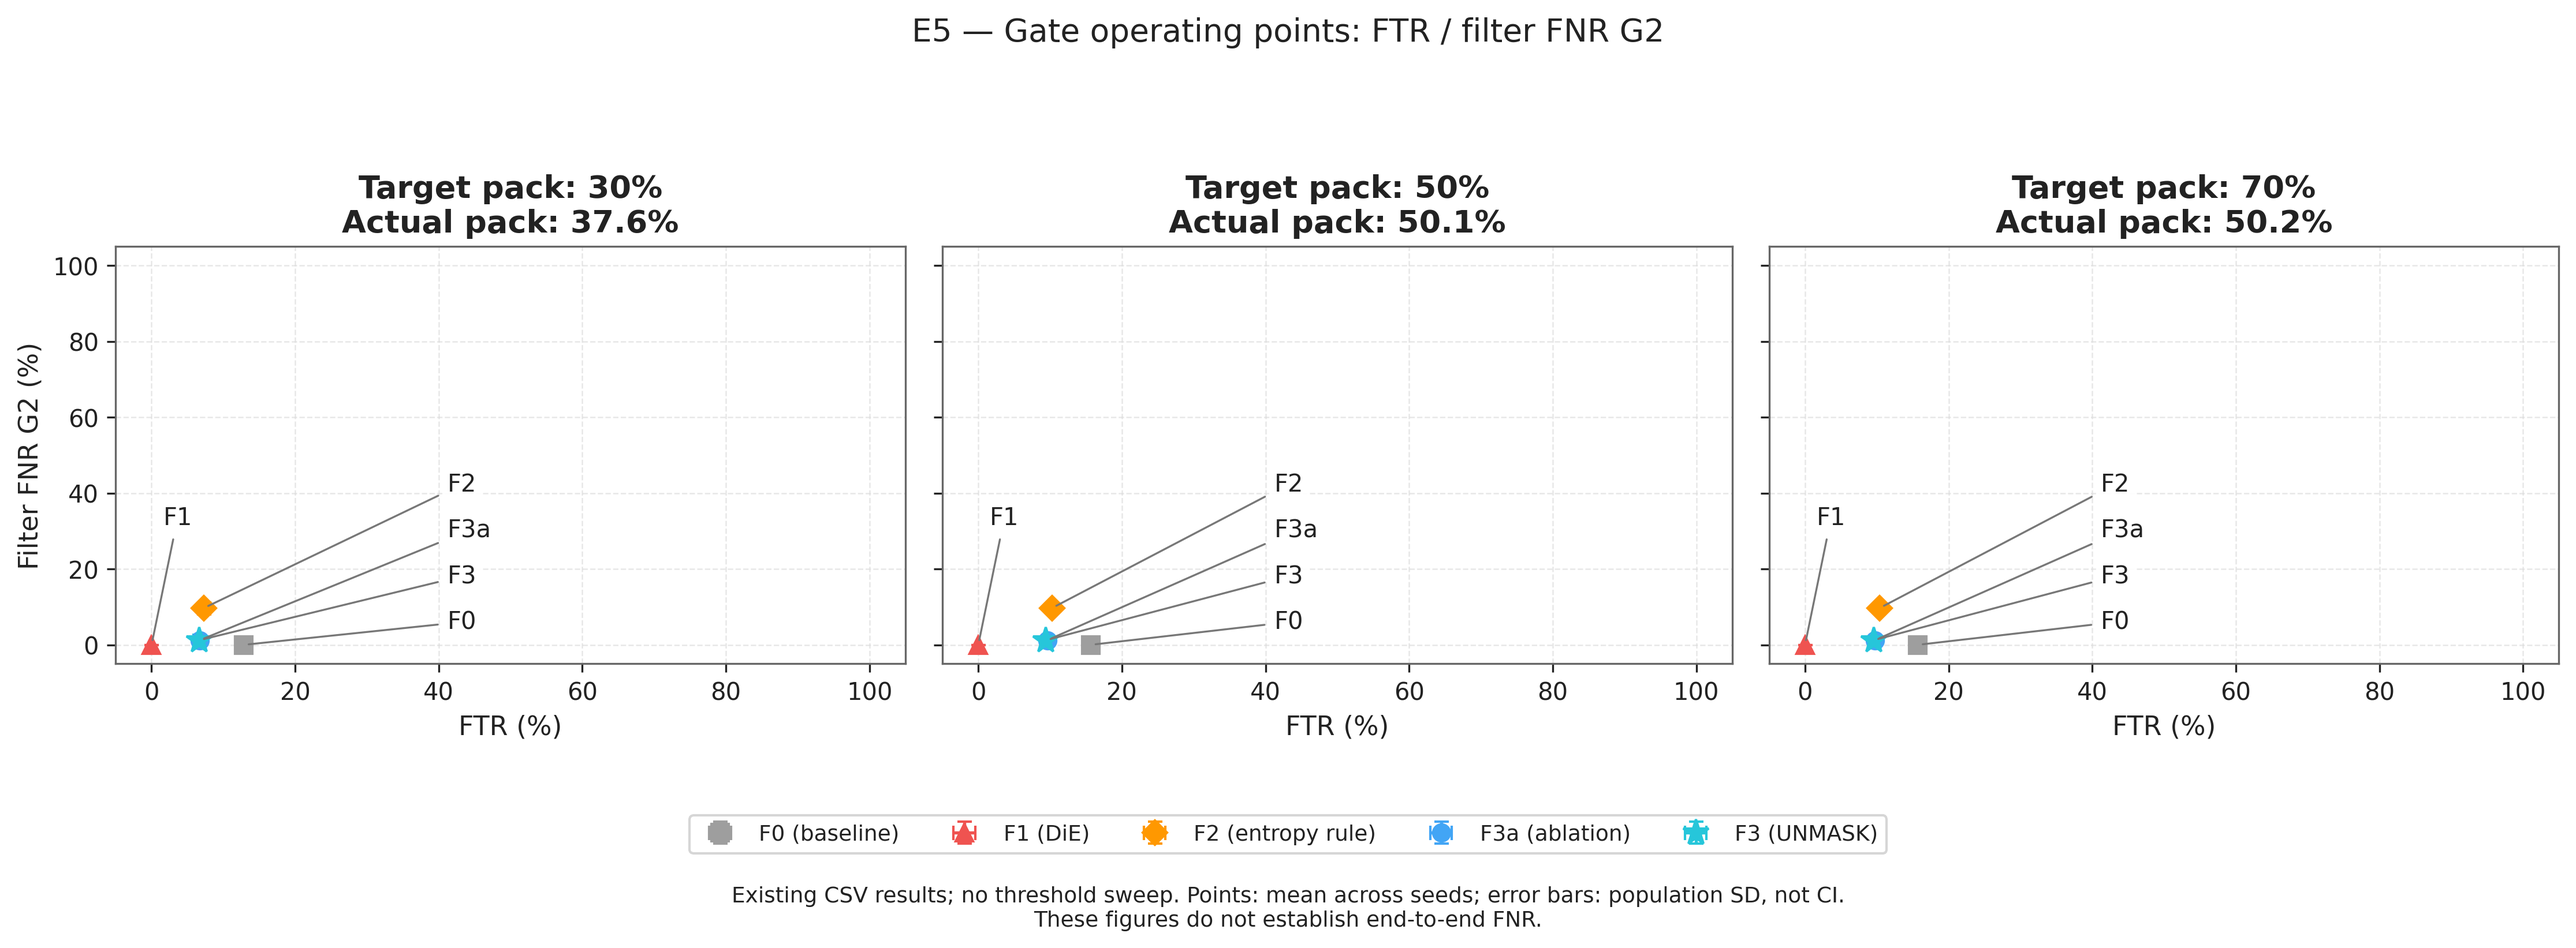
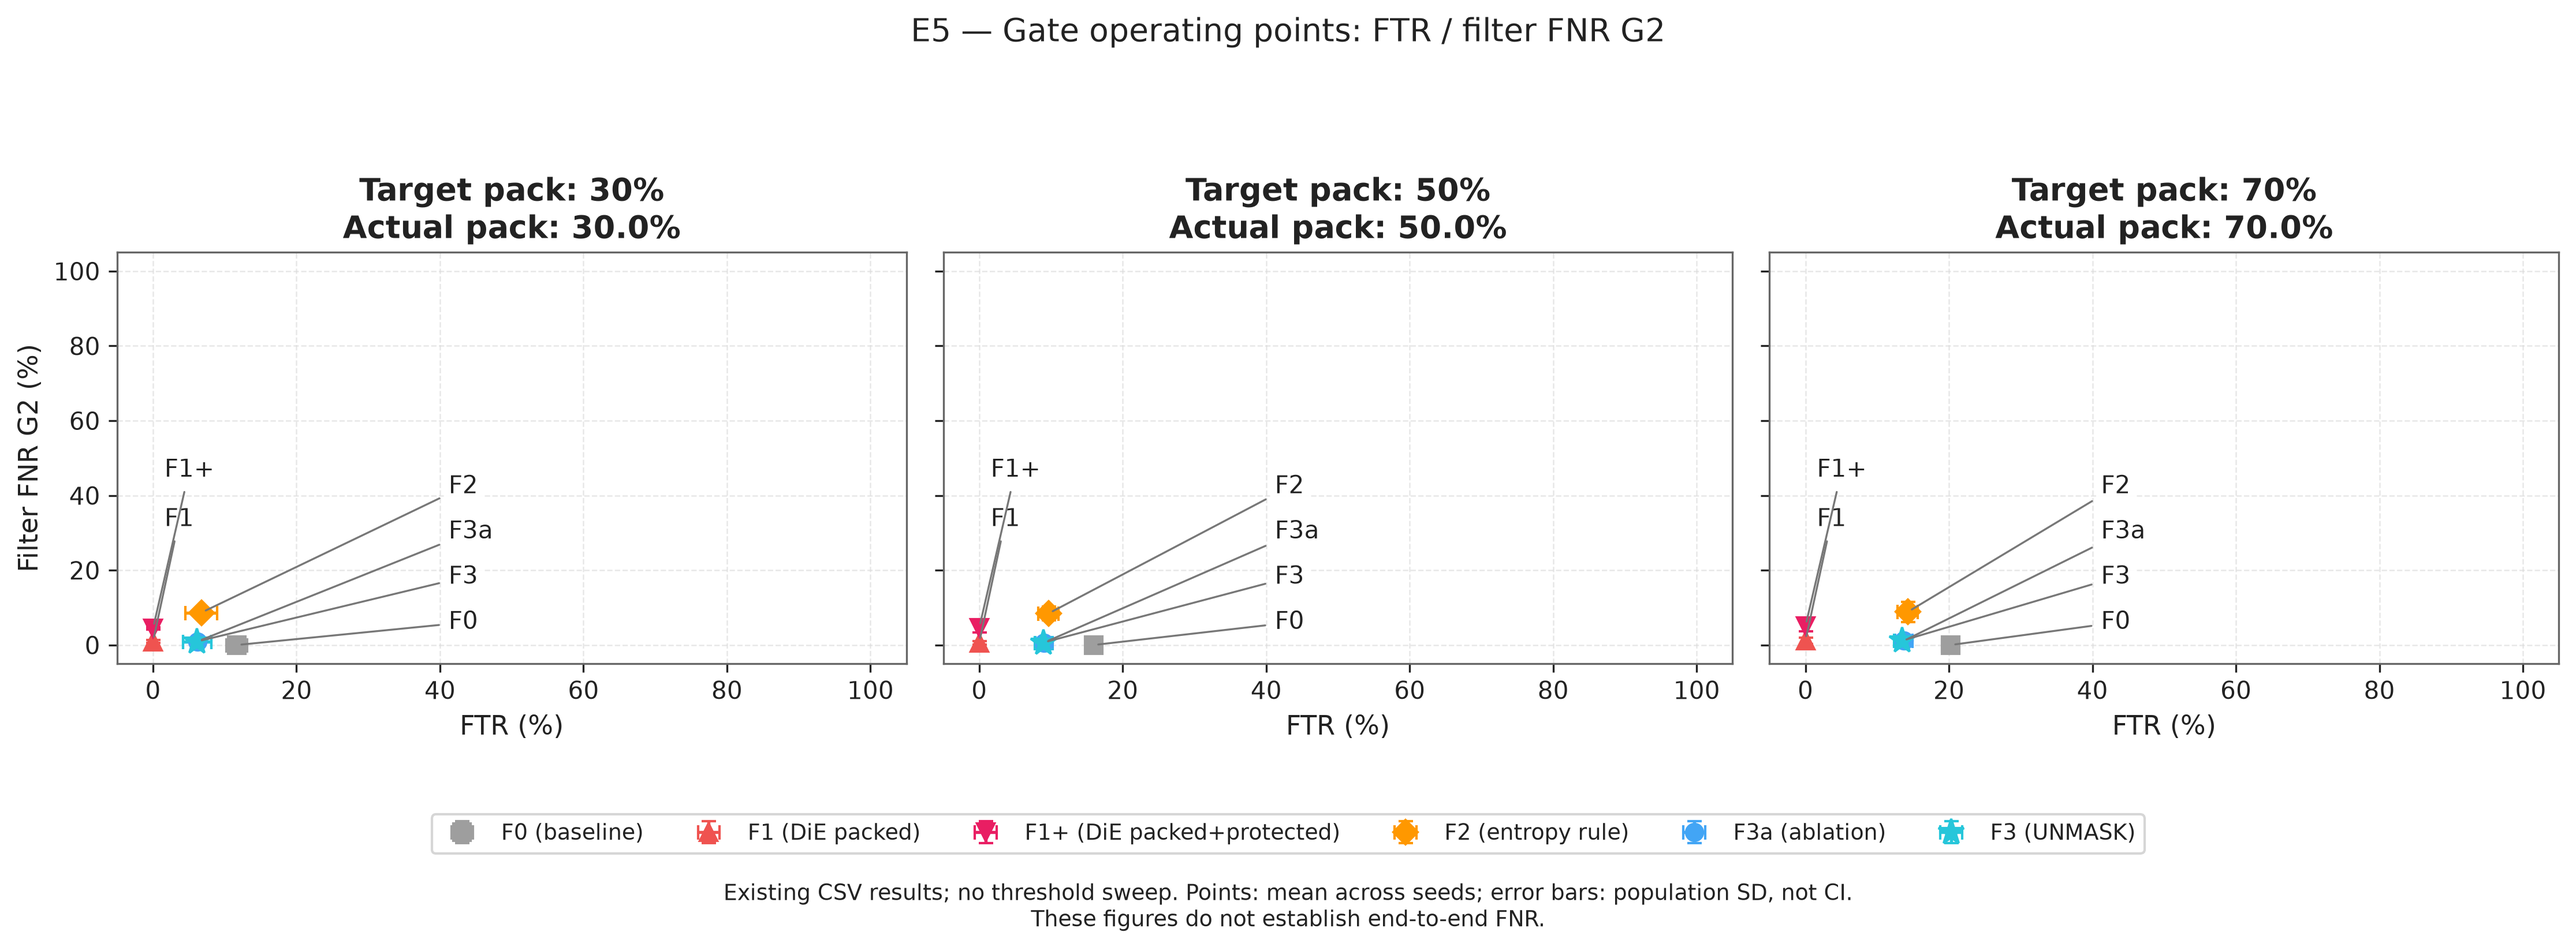
fix: them nhan F1+ vao E5/E6 plots (tranh KeyError GATE_ORDER) + hinh FTR theo gate (Khanh)

diff --git a/experiments/plot_fnr_filter_vs_e2e.py b/experiments/plot_fnr_filter_vs_e2e.py
@@ -29,15 +29,21 @@ from detector import DriftDetector
 from unmask.filter import load_filter
 
 from experiments.plot_style import (
-    apply_style, save_figure, GATE_ORDER, GATE_COLOR,
+    apply_style, save_figure, GATE_COLOR,
 )
+
+# Script này chỉ tính quyết định cho 5 cổng F0/F1/F2/F3a/F3 (không có F1+,
+# vốn chỉ dùng cho phân tích độ nhạy D1 riêng). GATE_ORDER của plot_style.py
+# có cả F1+ nên không dùng trực tiếp ở đây để tránh KeyError.
+GATE_ORDER = ["F0", "F1", "F2", "F3a", "F3"]
 from experiments.plot_e0b_alarm_by_group import wilson
 
 
-def plot(dataset_path, manifest_path, config_path, output):
+def plot(dataset_path, manifest_path, config_path, output, die_real_path=None):
     dtype = {"sha256": str, "origin_sha256": str}
     df = pd.read_csv(dataset_path, dtype=dtype)
     manifest = pd.read_csv(manifest_path, dtype=dtype)
+    die_real = pd.read_csv(die_real_path, dtype=dtype) if die_real_path else None
 
     with config_path.open(encoding="utf-8") as handle:
         cfg = json.load(handle)
@@ -104,6 +110,21 @@ def plot(dataset_path, manifest_path, config_path, output):
     )
     if not test["die_result"].isin(S.VALID_DIE).all():
         raise ValueError("Mẫu test thiếu kết quả DiE hợp lệ.")
+
+    # Cổng F1 (f1_die.decide) đọc cột die_result_real, lấy từ bộ quét
+    # pefile thật (results/die_real_v1.1.csv) -- khác cột die_result ở trên
+    # (nhãn suy ra từ quá trình sinh mẫu). Thiếu merge này khiến f1_die luôn
+    # trả "unknown" -> mọi mẫu bị coi là PASS, làm sai lệch cổng F1.
+    if die_real is not None:
+        test = test.drop(columns=["die_result_real"], errors="ignore")
+        test = test.merge(
+            die_real[["sha256", "die_result_real"]],
+            on="sha256",
+            how="left",
+            validate="one_to_one",
+        )
+        if test["die_result_real"].isna().any():
+            raise ValueError("Thiếu die_result_real cho một số mẫu test.")
 
     detector = DriftDetector(
         method=method, seed=0, standardize=True,
@@ -286,8 +307,15 @@ def main():
         "--out", type=Path,
         default=ROOT / "figs" / "fig_fnr_filter_vs_e2e.png",
     )
+    parser.add_argument(
+        "--die-real", type=Path,
+        default=ROOT / "results" / "die_real_v1.1.csv",
+    )
     args = parser.parse_args()
-    plot(args.dataset, args.manifest, args.config, args.out)
+    plot(
+        args.dataset, args.manifest, args.config, args.out,
+        die_real_path=args.die_real,
+    )
 
 
 if __name__ == "__main__":

diff --git a/experiments/plot_ftr_by_gate.py b/experiments/plot_ftr_by_gate.py
@@ -1,0 +1,54 @@
+"""Vẽ Hình 7.2 (Report): FTR theo cổng lọc tại ba tỉ lệ đóng gói mục tiêu 0,3 / 0,5 / 0,7.
+
+Nguồn dữ liệu: results/bang_chinh.csv (cột gate, FTR@30, FTR@50, FTR@70).
+Dùng khuôn vẽ chung của nhóm (experiments/plot_style.py) để đồng bộ font/định dạng
+với các hình khác (fig_e0b_alarm_by_group.png, fig_fnr_filter_vs_e2e.png,
+e5_ftr_fnr_curve.png, fig_e6_breakdown.png).
+
+Chạy: python experiments/plot_ftr_by_gate.py
+Input: results/bang_chinh.csv
+Output: figs/fig_ftr_by_gate.png
+"""
+from pathlib import Path
+
+import matplotlib.pyplot as plt
+import numpy as np
+import pandas as pd
+
+from plot_style import GATE_LABELS, apply_style, save_figure
+
+ROOT = Path(__file__).resolve().parent.parent
+RESULTS_CSV = ROOT / "results" / "bang_chinh.csv"
+OUT_PNG = ROOT / "figs" / "fig_ftr_by_gate.png"
+
+# Thứ tự hiển thị theo đúng Bảng 7.2 trong Report (bảng đó chỉ có 5 cổng, không có F1+)
+GATES = ["F0", "F1", "F2", "F3", "F3a"]
+COLS = ["FTR@30", "FTR@50", "FTR@70"]
+COL_COLOR = {"FTR@30": "#90caf9", "FTR@50": "#1e88e5", "FTR@70": "#0d47a1"}
+
+
+def main():
+    apply_style()
+    df = pd.read_csv(RESULTS_CSV).set_index("gate")
+
+    x = np.arange(len(GATES))
+    width = 0.25
+
+    fig, ax = plt.subplots(figsize=(7, 4.2))
+    for i, col in enumerate(COLS):
+        values = [df.loc[g, col] for g in GATES]
+        ax.bar(x + (i - 1) * width, values, width=width, label=col, color=COL_COLOR[col])
+
+    ax.set_xticks(x)
+    ax.set_xticklabels([GATE_LABELS.get(g, g) for g in GATES], rotation=10)
+    ax.set_ylabel("FTR")
+    ax.set_title("FTR theo cổng lọc và tỉ lệ đóng gói (tập test, 404 mẫu)")
+    ax.legend(title="Tỉ lệ đóng gói mục tiêu")
+    ax.grid(axis="y")
+
+    save_figure(fig, OUT_PNG)
+    print("Saved:", OUT_PNG)
+
+
+if __name__ == "__main__":
+    main()

diff --git a/experiments/plot_e5_e6.py b/experiments/plot_e5_e6.py
@@ -158,6 +158,7 @@ def plot_e5_operating_points(df: pd.DataFrame, out_dir: Path):
         "G2": {
             "F0": (0.42, 0.10),
             "F1": (0.06, 0.35),
+            "F1+": (0.06, 0.47),
             "F2": (0.42, 0.43),
             "F3a": (0.42, 0.32),
             "F3": (0.42, 0.21),
@@ -165,11 +166,17 @@ def plot_e5_operating_points(df: pd.DataFrame, out_dir: Path):
         "G3": {
             "F0": (0.42, 0.10),
             "F1": (0.14, 0.90),
+            "F1+": (0.14, 0.78),
             "F2": (0.42, 0.62),
             "F3a": (0.42, 0.51),
             "F3": (0.42, 0.40),
         },
     }
+    # Ghi chú: toạ độ F1+ ở trên là vị trí NHÃN (label) thêm vào để tránh
+    # KeyError khi GATE_ORDER (plot_style.py) có 6 cổng nhưng dict này vốn
+    # chỉ có 5 -- không phải số liệu, chỉ là chỗ đặt chữ chú thích trên
+    # hình. Nếu nhãn "F1+" đè lên nhãn khác khi xem hình, chỉnh 2 số này
+    # (tỉ lệ 0-1 theo chiều ngang/dọc của mỗi panel) cho đẹp hơn.
 
     for group in ["G2", "G3"]:
         fig, axes = plt.subplots(
